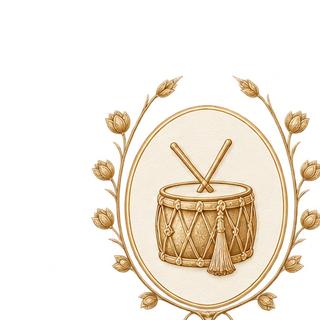
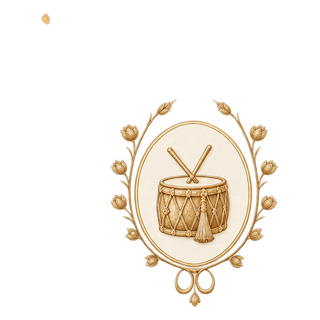
Halve location medallion size; trim floating petals 20%
- Align Anand Karaj medallion to the others (uniform framing/centre).
- Shrink the RSVP location medallions to ~half (9.5cqw -> 4.8cqw) so they no
  longer stretch the event rows / form.
- Reduce the steady-state floating petal count by ~20%.

Changed region(s): [[0.2812, 0.2188, 1.0, 1.0], [0.125, 0.0312, 0.1562, 0.0938]]

diff --git a/src/figma/fig.css b/src/figma/fig.css
@@ -219,11 +219,11 @@
   display: flex; align-items: center; gap: 1.4cqw;
   padding: 0; border: 0; background: transparent; cursor: pointer; text-align: left;
 }
-/* gold location medallion — shown directly (no circle), larger */
+/* gold location medallion — shown directly (no circle) */
 .rff__eventmain img {
-  width: 9.5cqw; height: 9.5cqw; flex: none;
+  width: 4.8cqw; height: 4.8cqw; flex: none;
   object-fit: contain;
-  filter: drop-shadow(0 0.3cqw 0.6cqw rgba(150, 90, 80, 0.18));
+  filter: drop-shadow(0 0.2cqw 0.4cqw rgba(150, 90, 80, 0.18));
 }
 .rff__eventtext { display: flex; flex-direction: column; gap: 0.05cqw; flex: 1; min-width: 0; line-height: 1.1; }
 .rff__eventtext strong { font-family: 'Cormorant Garamond', serif; font-weight: 600; font-size: 2.15cqw; letter-spacing: 0.12cqw; text-transform: uppercase; color: #7a4a42; }

diff --git a/src/effects/Petals.jsx b/src/effects/Petals.jsx
@@ -108,7 +108,7 @@ export default function Petals() {
       raf = requestAnimationFrame(frame)
       if (!running) return
       const dt = Math.min((now - last) / 1000, 0.05); last = now
-      const target = W < 640 ? 42 : W < 1100 ? 44 : 55   // +30% quantity
+      const target = W < 640 ? 34 : W < 1100 ? 35 : 44   // floating count (−20%)
       spawnT -= dt
       if (parts.reduce((n, p) => (p.life === Infinity ? n + 1 : n), 0) < target && spawnT <= 0) {
         make(); spawnT = 0.12
